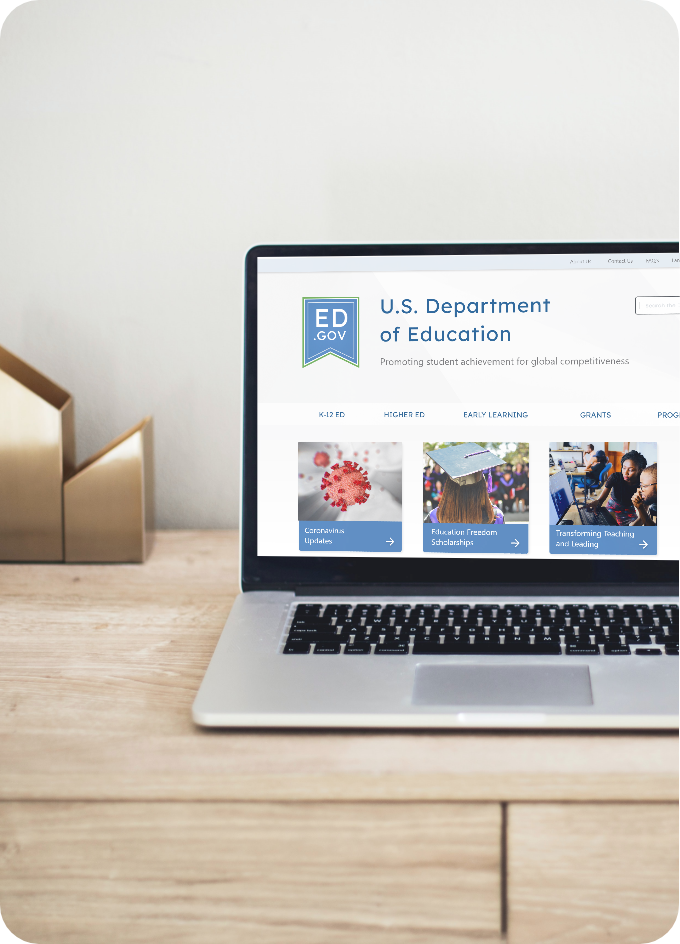
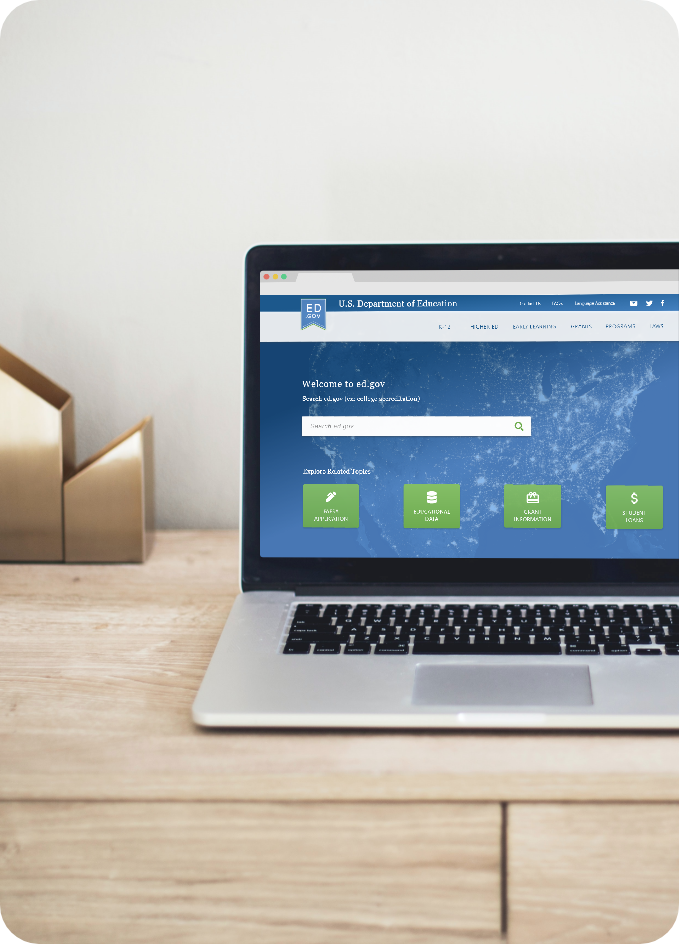
10.28.21

Changed region(s): [[0.3711, 0.1843, 1.0, 0.9831]]

diff --git a/DoEdCaseStudy.html b/DoEdCaseStudy.html
@@ -87,7 +87,7 @@
               </div>
           </div>
           <div class="col-lg-6" style="padding-right: 0px">
-            <img class="hero"; src="images\DeptOfEd\EdWebView.png" alt="">
+            <img class="hero"; src="images\DeptOfEd\edWebView.png" alt="">
           </div> 
       </div>
   </div>  
@@ -160,9 +160,28 @@
         <div class="col-lg-6">
               <a href="images\DeptOfEd\DoEdProtoPersona.svg" data-toggle="lightbox" target="blank"><img class="sideImage" src="images\DeptOfEd\DoEdProtoPersona.svg" alt=""></a>
         </div> 
-        <div class="col-lg-12" style="padding-bottom: 30px; padding-top: 10px;">
-            <p class="callOut border border-right-0 border-left-0" >“There is a lot of information, it’s hard to find what I’m looking for...you have to scan everything first to zero-in on what you want” </p>
-        </div>
+
+        <div class="container">
+          <div class="row">
+            <div class="col-lg-6">
+              <a href="images\DeptOfEd\home.png" data-toggle="lightbox" target="blank"><img class="image"  src="images\DeptOfEd\home.png" alt=""></a>
+            </div>
+            <div class="col-lg-6">
+              <a href="images\DeptOfEd\grants.png" data-toggle="lightbox" target="blank"><img class="image"  src="images\DeptOfEd\grants.png" alt=""></a>
+            </div>
+            <div class="col-lg-6">
+              <a href="images\DeptOfEd\data.png" data-toggle="lightbox" target="blank"><img class="image"  src="images\DeptOfEd\data.png" alt=""></a>
+            </div>
+            <div class="col-lg-6">
+              <a href="images\DeptOfEd\studentLoans.png" data-toggle="lightbox" target="blank"><img class="image"  src="images\DeptOfEd\studentLoans.png" alt=""></a>
+            </div>
+            <div class="col-lg-12" style="padding-bottom: 30px; padding-top: 10px;">
+              <p class="callOut border border-right-0 border-left-0" >“There is a lot of information, it’s hard to find what I’m looking for...you have to scan everything first to zero-in on what you want” </p>
+          </div>
+  
+          </div>
+        </div> 
+
         <div class="col-lg-12 bodyText" >
           <p>We conducted five initial user tests to evaluate the performance of the website. We tested whether or not users were able to perform simple tasks like signing up for newsletters, locating grant information or finding information on prominent legislation.</p>
         </div>
@@ -181,7 +200,9 @@
           </ol>
         </div>
       </div>
- </div> 
+    </div> 
+
+
 
     <div class="container">
     <div class="row">
@@ -216,7 +237,7 @@
           <p class="heading2">Definition</p></a>
         </div>
         <div class="col-lg-12 col-sm-12" >
-          <p class="bodyText">During our research learned that many of the links on the site are used to funnel users to more specific websites, such as FAFSA.gov or the studentaid.gov. This realization was key in thinking about potential user flows and how editing the navigation could assist in error prevention. How might we present the content in a way that defines the site's purpose, while clearly redirecting users who have arrived in error?</p>
+          <p class="bodyText">During our research we learned that many of the links on the site are used to funnel users to more specific websites, such as studentaid.gov. This realization was key in thinking about potential user flows and how editing the navigation could assist in error prevention. How might we present the content in a way that defines the site's purpose, while clearly redirecting users who have arrived in error?</p>
         </div>
         <div class="col-lg-12">
           <a href="images\DeptOfEd\navigation.png" data-toggle="lightbox" target="blank"><img class="image" src="images\DeptOfEd\navigation.png"  alt="..."></a>
@@ -227,8 +248,13 @@
         <div class="col-lg-6">
           <a href="images\DeptOfEd\cardSorting.jpg" data-toggle="lightbox" target="blank"><img class="sideImage" src="images\DeptOfEd\cardSorting.jpg" style="padding-top: 0;"  alt="..."></a>
       </div>
-        <div class="col-lg-12 col-sm-12 bodyText">
-          <p>We conducted a card sorting exercise to begin work on the new sitemap and establish our new navigation. We arrived at the following headings: K-12 Education, Higher Ed, Early Childhood Education, Grants & Programs, Laws & Guidance</p>
+      <div class="col-lg-6">
+        <a href="images\DeptOfEd\sitemap.png" data-toggle="lightbox" target="blank"><img class="sideImage" src="images\DeptOfEd\sitemap2.png" style="padding-top: 0;"  alt="..."></a>
+    </div>
+
+        <div class="col-lg-6 col-sm-12 bodyText">
+          <p>We conducted a card sorting exercise to begin work on the new sitemap and establish our new navigation. We arrived at the following headings: K-12 Education, Higher Ed, Early Childhood Education, Grants & Programs, Laws & Guidance. </p>
+          <p>With the new navigation, we were able to build out the rest of the site map with subpages. We aimed to present the information in a streamlined manner and funnel the user towards the information they need, rather than load the pages with links. The new sitemap will allow for cleaner pages which will reduce the “overwhelmed” feelings we witnessed in the testing phase. </p>
         </div>
      </div>
   </div>
@@ -240,40 +266,39 @@
         <div class="col-lg-12">
           <a id="ideation">
             <p class="heading2">Ideation</p></a>
-            <p class="bodyText">The UI direction for the website is clean, approachable and accessible in keeping with the department's mission aimed at educational equity. The color palette harkens back to simply elementary design. However, combined with clean geometric and abstract shapes, the UI still conceptualizes abstract ideas associated with academia and higher education.</p>
         </div>
+        <div class="col-lg-6">
+            <p class="bodyText">The UI direction for the website is clean, approachable and accessible in keeping with the department's mission aimed at educational equity. The color palette allows for appropriate contrast and accessibility while still creating an interesting visual experience. All the UI design choices were carefully considered, but particularly the images since this department serves the entire nation's educational systems. We were mindful to select photos that represented the diversity of the citizens, programs and age groups served.</p>
+        </div>
+        <div class="col-lg-6">
+          <a href="images\DeptOfEd\colors.png" data-toggle="lightbox" target="blank"><img class="sideImage" src="images\DeptOfEd\colors.png" style="padding-top: 0;"  alt="..."></a>
       </div>
+      <div class="col-lg-12">
+        <a href="images\DeptOfEd\styleSnippet.png" data-toggle="lightbox" target="blank"><img class="sideImage" src="images\DeptOfEd\styleSnippet.png" style="padding-top: 0;"  alt="..."></a>
+      </div>
+      <div class="col-lg-12">
+        <a href="images\DeptOfEd\stockPhotos.png" data-toggle="lightbox" target="blank"><img class="image" src="images\DeptOfEd\stockPhotos.png" style="padding-top: 0;"  alt="..."></a>
+     </div>
     </div> 
+    </div>
+    
     <div class="container">
       <div class="row">
         <div class="col-lg-12 ">
           <p class="heading2">Prototyping</p>
+          <p class="bodyText">We began prototyping with just the navigation and conducted 5-Second Tests. Based on our 5-second testing, the navigtation was broken into six categories rather than five, and the heading names were simplified to more easily convey the topics. The UI was also simplified to have a white navigation background since there were some problems with legibility.</p>
+          <a href="images\DeptOfEd\NavWireframe.png" data-toggle="lightbox" target="blank"><img class="image" src="images\DeptOfEd\NavWireframeV1.png" alt=""></a>
         </div>
-        <div class="col-lg-6 ">
-          <p class="bodyText">Once we had decided on our core features for the app, we created a task flow diagram to map the various pages and how they would flow together. We realized that although we had been talking about the functionality extensively, we were envisioning slightly different ways to execute the prototype. This stage allowed the team to talk through important details and arrive at the best solutions. With our task flow complete, we were ready to develop our low-fidelity prototype which we would use to perform user testing. 
-          </p>
+        <div class="col-lg-6 bodyText">
+         <p>With the testing and iterations done to the nagivation, we created the wireframes for the homepage and primary navigation pages. The homepage was redesigned to include important content near the top of the page, as a replacement for the navigation images currently in use. Featured topics were moved up on the page and replaced the press releases and Secretary bio section.</p>
+         <p>Additionally, patterns were established in the wireframe that would carry through all the pages of the site. Buttons, cards, headings, and grid patterns were standardized.</p>
+
         </div>
         <div class="col-lg-6">
-              <a href="images\PlantThat\ProcessFlow.png" data-toggle="lightbox" target="blank"><img class="image"; src="images\PlantThat\ProcessFlow.png" alt=""></a>
+              <a href="images\DeptOfEd\homePageWireframe.png" data-toggle="lightbox" target="blank"><img class="sideImage"; src="images\DeptOfEd\homePageWireframe.png" alt=""></a>
         </div> 
       </div>
  </div> 
-  <div class="container">
-      <div class="row narrow text-center">
-        <div class="col-lg-3 col-sm-12">
-            <a href="images\PlantThat\loResAddPlant.svg" data-toggle="lightbox" target="blank"><img class="image" src="images\PlantThat\loResAddPlant.svg" class="card-img-top" alt="..."></a>
-        </div>
-        <div class="col-lg-3 col-sm-12">
-            <a href="images\PlantThat\loResMyPlants.svg" data-toggle="lightbox" target="blank"><img class="image" src="images\PlantThat\loResMyPlants.svg" class="card-img-top" alt="..."></a>
-        </div>
-        <div class="col-lg-3 col-sm-12">
-            <a href="images\PlantThat\loResMaintLog.svg" data-toggle="lightbox" target="blank"><img class="image" src="images\PlantThat\loResMaintLog.svg" class="card-img-top" alt="..."></a>
-        </div>
-        <div class="col-lg-3 col-sm-12">
-            <a href="images\PlantThat\loResMenu.svg" data-toggle="lightbox" target="blank"><img class="image" src="images\PlantThat\loResMenu.svg" class="card-img-top" alt="..."></a>
-        </div>
-      </div>
-  </div>
   
   <div class="container">
     <div class="row">
@@ -281,25 +306,15 @@
           <a id=testing><p class="heading2">User Testing</p></a>
         </div>
         <div class="col-lg-6">
-          
-          <p class="bodyText">We conducted usability testing with five individuals to discover how the experience was for the user and find weak spots in the design. The primary objective was to determine if they could accomplish three main tasks:</p>
-          <ol class="bodyText" style="padding-left: 10%">
-            <li>Use the app to look up a Monstera plant and add it to “My Plants”</li>
-            <li>Update the Monstera plant to show that you watered it today</li>
-            <li>Navigate to the page where you'll find an overview of how to care for the Monstera plant</li>
-          </ol>
+          <p class="bodyText">In user testing it was determined that some of the key aspects of the site were not easy enough to find.  To address this problem, some modifications were made to the homescreen which included large buttons that would redirect users if they were seeking information available on a different government website. The search bar was also moved on the home screen to encourage users to utilize keyword searches, given the dense amount of information on the site.
+          </p>
+          <p class="bodyText">Throughout this process, I referred back to my heuristic analysis to keep focused on the primary problems. In addition to creating patterns and consistency on the site, I utilized white space to make the page easily scannable and balanced. By realigning grid items and applying higher contrast to the page elements, the page is cleaner and more aesthetically pleasing. 
+
+        </div>    
+        <div class="col-lg-6 d-flex align-items-center justify-content-center" align="center">
+          <a href="images\DeptOfEd\homeFullScreen.PNG" data-toggle="lightbox" target="blank"><img class="sideImage" style="max-width: 100%;" src="images\DeptOfEd\homeFullScreen.PNG" alt=""></a>
         </div>
-    
-        <div class="col-lg-3 d-flex align-items-center justify-content-center" align="center">
-          <a href="images\PlantThat\hiResMyPlants2.png" data-toggle="lightbox" target="blank"><img class="image card-img-top" style="max-width: 100%;" src="images\PlantThat\hiResMyPlants2.png" alt=""></a>
-        </div>
-        <div class="col-lg-3 d-flex align-items-center justify-content-center"  align="center">
-          <a href="images\PlantThat\hiResMenu.svg" data-toggle="lightbox" target="blank" style="width: 100%;"><img class="image card-img-top" style="width: 100%; margin:0" src="images\PlantThat\hiResMenu.png" alt=""></a>
-        </div>
-        <div class="col-lg-12">
-          <p class="bodyText" style="padding-bottom: 20px">The most important finding from the testing was that users were confused by having “Maintenance Log” in a separate section from “My Plants”. The maintenance page was hard to find while the user was organically maneuvering through the app. As a result, we decided to integrate the two sections of the prototype to create a more streamlined user flow. This allowed us to simplify the design of the product, while creating a better experience for the user. </p>
-        </div>
-    </div>
+  </div>
   </div>
 
   <div class="container">
@@ -311,11 +326,8 @@
           <p class="bodyText">We set out to create an app that would help users be more successful with their plant growing. Along the way, we found that a simpler product with fewer features and screens was the most helpful and easy to use. The end product is a high-fidelity prototype that could be developed as a user-centered mobile application. </p>
           <div class="text-center"><button class="standardButton" style="max-width: 90%;">View High-Fidelity Prototype</button></div>
       </div>
-      <div class="col-lg-3 col-sm-12 align-items-center">
-          <img class="image" style="width: 100%; margin:0" src="images\PlantThat\hiResSplash.svg" class="" alt="...">
-      </div>
-      <div class="col-lg-3 col-sm-12">
-          <img class="image" src="images\PlantThat\hiResHome.png" class="" alt="...">
+      <div class="col-lg-6 col-sm-12 align-items-center">
+          <img class="sideImage" style="width: 100%; margin:0" src="images\DeptOfEd\homeBrowser.png" class="" alt="...">
       </div>
       <!-- <div class="cardContainer col-lg-3 col-sm-12">
         <br>

diff --git a/index.html b/index.html
@@ -127,7 +127,7 @@ function myFunction() {
                 <form method="get" action="https://tjohnshoy.github.io//tgCaseStudy.html"><button type="submit">Learn More</button></form>
             </div>
             
-            <div class="card"><img src="https://tjohnshoy.github.io/images/DeptOfEd/EdWebView.png" />
+            <div class="card"><img src="https://tjohnshoy.github.io/images/DeptOfEd/edWebView.png" />
                 <div class="info">
                     <div class="h2" style="color: white;">Department of Education</div>
                     <p>A case study redesign to overhaul the UI and improve usability.</p><form method="get" action="https://tjohnshoy.github.io//DoEdCaseStudy.html"></p><button>Learn More</button></form>
